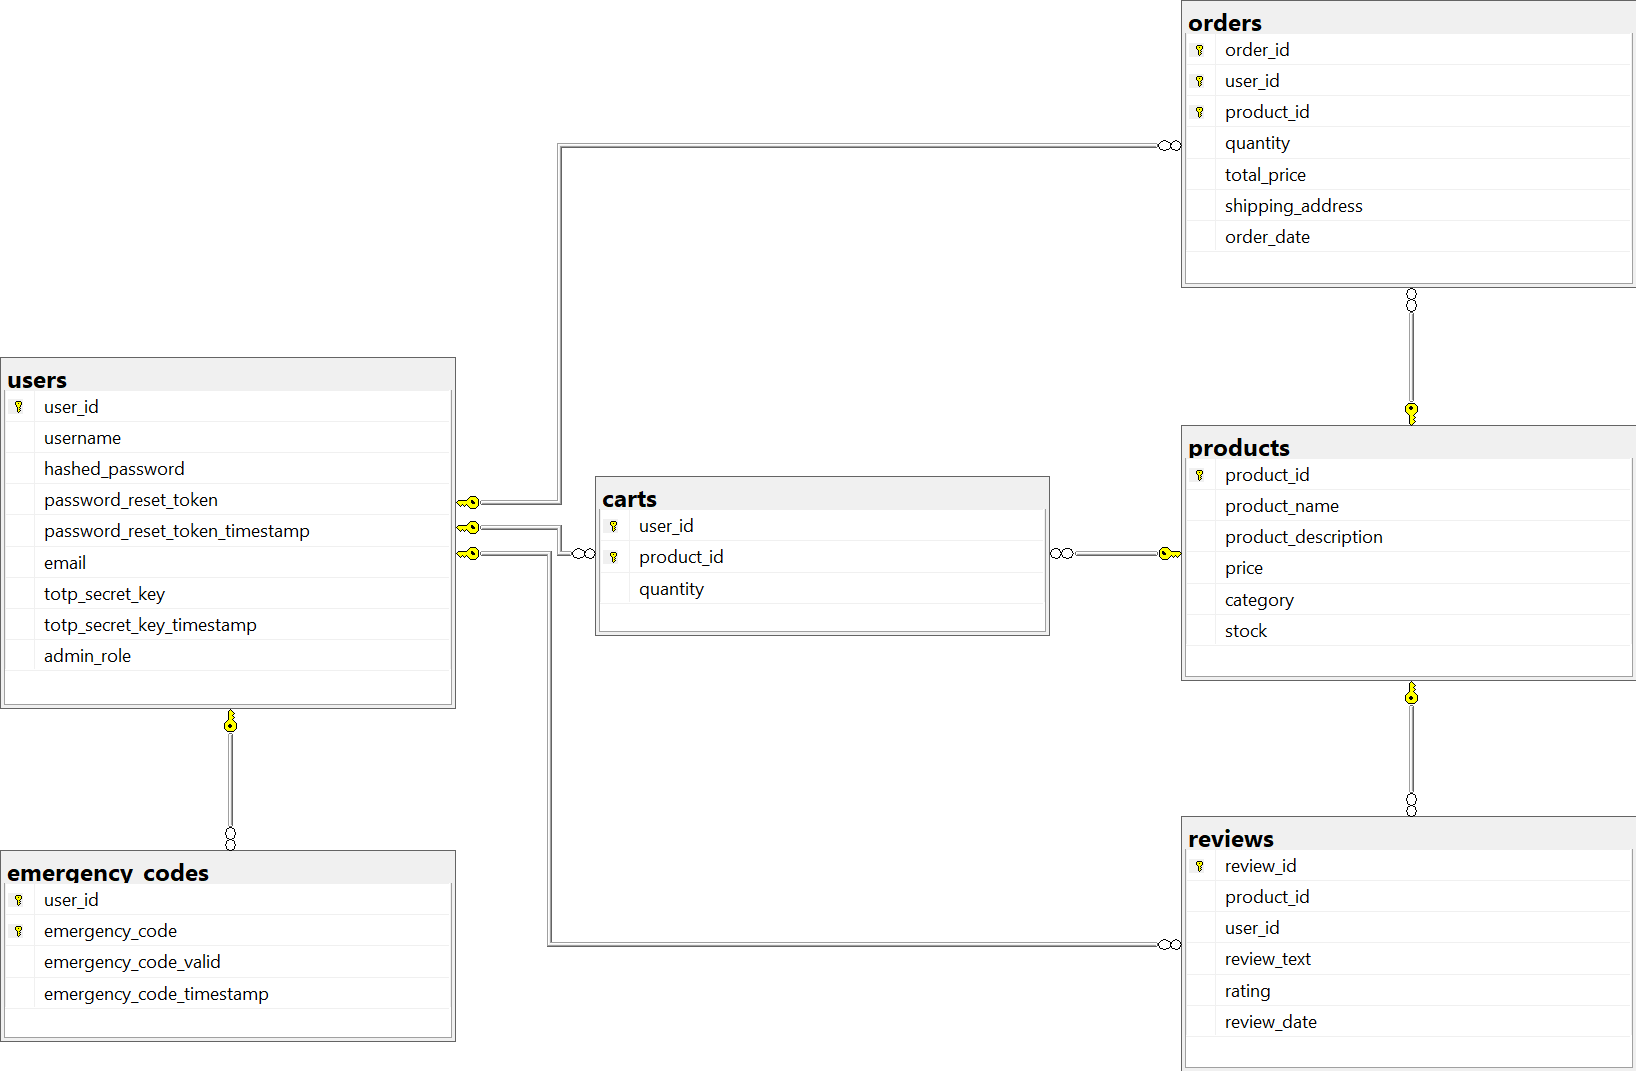
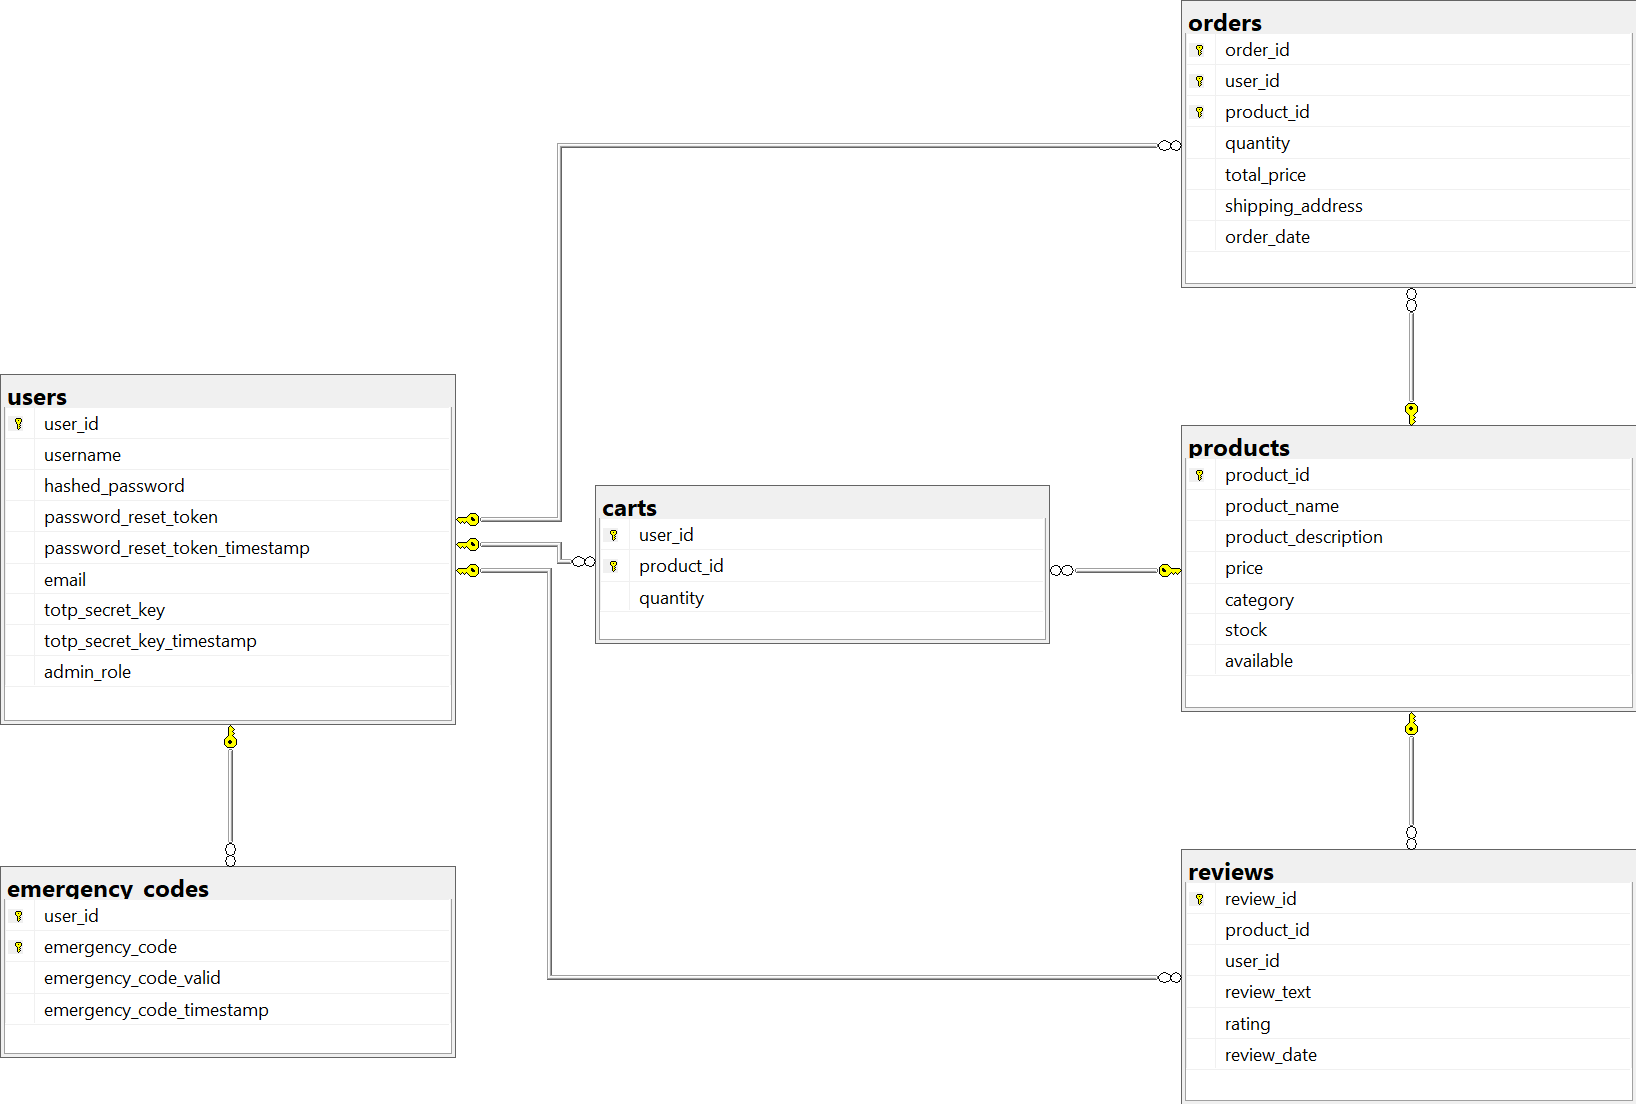
Finished the Migration to SQL Server. Needs Testing

diff --git a/src/templates/orders.html b/src/templates/orders.html
@@ -38,7 +38,9 @@
                         <td>{{ product.quantity }}</td>
                         <td>{{ product.price }} €</td>
                         <td>{{ product.date }}</td>
-                        <td><i class="fas fa-cart-plus reorderButton cart-button" data-product='{{ product|tojson|safe }}' id="reorderButton"></i></td>
+                        {% if product.product_available == 1 %}
+                            <td><i class="fas fa-cart-plus reorderButton cart-button" data-product='{{ product|tojson|safe }}' id="reorderButton"></i></td>
+                        {% endif %}
                     </tr>
                 {% endfor %}
             </tbody>

diff --git a/src/views.py b/src/views.py
@@ -7,7 +7,7 @@ from handlers.UserManagement import update_username, search_user_by_id, update_e
 from handlers.UserManagement import get_user_role, compose_email_body, update_password, generate_reset_token, set_reset_token_for_user
 from handlers.ProductManagement import create_review, set_cart_item, update_product_after_order, register_order
 from handlers.ProductManagement import create_product, remove_product, verify_id_exists, update_product_name, create_product_image
-from handlers.ProductManagement import update_product_description, update_product_price, update_product_category, update_product_quantity
+from handlers.ProductManagement import update_product_description, check_product_availability, update_product_price, update_product_category, update_product_quantity
 from handlers.EmailHandler import send_email_with_attachment, sql_to_pdf
 from handlers.DataBaseCoordinator import check_database_tables_exist, db_query, is_valid_table_name
 from handlers.Verifiers import check_username_exists, check_email_exists, check_product_in_cart, is_valid_input
@@ -121,8 +121,6 @@ def verify_totp_signup():
 
     secret_key = session.get("secret_key")
 
-    print(inserted_totp, secret_key)
-    print("aqui")
     # Verify the TOTP code
     if verify_totp_code(inserted_totp, secret_key):
 
@@ -219,22 +217,28 @@ def verify_totp_login(id):
         return render_template("totp_login.html", id=id)
     else:
         username = search_user_by_id(id)[1]
+        print("username "+username)
         token = request.get_json().get("token") if request.is_json else None
-        
+        print("token"+token)
         if username is None or token is None:
             return render_template("login.html", message="Invalid TOTP code. Please try again.")
 
         secret_key = get_totp_secret(id)
 
+        print("secret_key "+secret_key)
+
         verified = verify_totp_code(token, secret_key)
+
+        print("verified "+str(verified))
 
         # Verify the TOTP code
         if verified == True:
             # Set session variables
             session["username"] = username
             session["id"] = id
+            print("id "+str(id))
             session["admin"] = get_user_role(session["id"])
-
+            print("admin "+str(session["admin"]))
             return jsonify({'message': 'Login successful.'}), 200
         else:
 
@@ -512,7 +516,7 @@ def remove_product_by_id(id):
     # Updated route name and parameter name to avoid conflicts
     product_id = request.form.get("productId")
 
-    if is_valid_input(product_id) != False and id is not None and verify_id_exists(product_id, "products"):
+    if is_valid_input(product_id) != False and id is not None and verify_id_exists(product_id, "products") and check_product_availability(product_id) == True:
         # Assuming 'remove_product' is a function you've defined elsewhere, you can use it here
         remove_product(product_id)
 
@@ -567,12 +571,14 @@ def product_page(product_id):
     # Fetch the product details based on the product_id
     # You can retrieve the product information from your data source
     id = session.get("id")
+    
+    if verify_id_exists(product_id, "products") == False or check_product_availability(product_id) == False:
+        return redirect(url_for("views.catalog", id=id))
+    
     product = get_product_by_id(product_id)
     admin = get_user_role(id)
 
-    if verify_id_exists(product_id, "products") == False:
-        return redirect(url_for("views.catalog", id=id))
-    elif id == None:
+    if id == None:
         # Pass the product details to the template
         return render_template('product_anonymous.html', product = product)
     elif admin:
@@ -584,6 +590,9 @@ def product_page(product_id):
 
 @views.route('/get_reviews/<int:product_id>/', methods=['GET'])
 def get_reviews(product_id):
+
+    if verify_id_exists(product_id, "products") == False or check_product_availability(product_id) == False:
+        return jsonify([])
 
     reviews = get_product_reviews(product_id)
 
@@ -598,6 +607,9 @@ def get_reviews(product_id):
 
 @views.route('/add_review/<product_id>/', methods=['POST'])
 def add_review(product_id):
+
+    if verify_id_exists(product_id, "products") == False or check_product_availability(product_id) == False:
+        return redirect(url_for("views.catalog", id=session.get("id")))
 
     # Get the user's id and username from the session
     user_id = session.get("id")
@@ -628,7 +640,7 @@ def add_item_to_cart(product_id):
     id = session.get("id")
     if id == None:
         return redirect(url_for("views.login"))
-    elif verify_id_exists(product_id, "products") == False:
+    elif verify_id_exists(product_id, "products") == False or check_product_availability(product_id) == False:
         return redirect(url_for("views.catalog", id=id))
     
     try:
@@ -667,7 +679,7 @@ def remove_item_from_cart(product_id):
     if id == None:
         return redirect(url_for("views.login"))
     
-    elif verify_id_exists(product_id, "products") == False:
+    elif verify_id_exists(product_id, "products") == False or check_product_availability(product_id) == False:
         return redirect(url_for("views.catalog", id=id))
 
     try:
@@ -814,6 +826,8 @@ def orders(id):
 
     if products == None:
         return render_template('orders.html', products=[])
+    
+    print(products)
 
     return render_template('orders.html', products=products)
 

diff --git a/src/handlers/ProductManagement.py b/src/handlers/ProductManagement.py
@@ -16,6 +16,14 @@ def verify_product_exists(product_name):
     else:
         return True
 
+def check_product_availability(product_id):
+
+    # Secure Query: Check if the ID exists in the specified table
+    query = "SELECT available FROM products WHERE product_id = ?;"
+    results = db_query(query, (product_id))
+
+    return results[0][0] if results else False
+
 
 def verify_id_exists(id, table):
 
@@ -89,8 +97,8 @@ def create_product(product_name, product_description, product_price, product_cat
     
     # Add the user to the USER table
     # Secure Query
-    db_query("INSERT INTO products (product_id, product_name, product_description, price, category, stock) VALUES (?, ?, ?, ?, ?, ?);",
-            (id, product_name, product_description, product_price, product_category, product_quantity)
+    db_query("INSERT INTO products (product_id, product_name, product_description, price, category, stock, available) VALUES (?, ?, ?, ?, ?, ?, ?);",
+            (id, product_name, product_description, product_price, product_category, product_quantity, True)
     )
 
     # Create a folder for the user
@@ -101,27 +109,21 @@ def create_product(product_name, product_description, product_price, product_cat
 
 
 def remove_product(id):
-    # Secure Query
-    query = "DELETE FROM products WHERE product_id = ?"
+
+    # Secure Query to delete the product from the carts
+    query = "DELETE FROM carts WHERE product_id = ?;"
     db_query(query, (id))
 
-
-    # Get the current working directory
-    directory = os.getcwd()
-
-    # Define the path for the user's directory
-    user_directory = os.path.join(directory, "catalog")
-
-    # Create the user's directory and any missing parent directories
-    if os.path.exists(os.path.join(user_directory, f"{id}.png")):
-        os.remove(os.path.join(user_directory, f"{id}.png"))
+    # Secure Query
+    query = "UPDATE products SET available = 0 WHERE product_id = ?;"
+    db_query(query, (id))
 
     return True
 
 
 def update_product_name(id, name):
     # Secure Query
-    query = "UPDATE products SET name = %s WHERE id = %s"
+    query = "UPDATE products SET product_name = ? WHERE product_id = ?;"
     db_query(query, (name, id))
 
     return True
@@ -129,7 +131,7 @@ def update_product_name(id, name):
 
 def update_product_description(id, description):
     # Secure Query
-    query = "UPDATE products SET description = %s WHERE id = %s"
+    query = "UPDATE products SET product_description = ? WHERE product_id = ?;"
     db_query(query, (description, id))
 
     return True
@@ -137,7 +139,7 @@ def update_product_description(id, description):
 
 def update_product_price(id, price):
     # Secure Query
-    query = "UPDATE products SET price = %s WHERE id = %s"
+    query = "UPDATE products SET price = ? WHERE product_id = ?"
     db_query(query, (price, id))
 
     return True
@@ -146,7 +148,7 @@ def update_product_price(id, price):
 def update_product_category(id, category):
     
     # Secure Query
-    query = "UPDATE products SET category = %s WHERE id = %s"
+    query = "UPDATE products SET category = ? WHERE product_id = ?"
     db_query(query, (category, id))
 
     return True

diff --git a/src/handlers/Retrievers.py b/src/handlers/Retrievers.py
@@ -28,7 +28,7 @@ def get_orders(username_orders):
 
 def get_all_products():
     # Secure Query - Select specific columns
-    query = "SELECT product_id, product_name, product_description, price, category, stock FROM products"
+    query = "SELECT product_id, product_name, product_description, price, category, stock, available FROM products"
     results = db_query(query)
     
     # Fetch all rows in one go and convert to a list of dictionaries
@@ -39,7 +39,7 @@ def get_all_products():
         "price": row[3],
         "category": row[4],
         "stock": row[5]
-    } for row in results]
+    } for row in results if row[6] == True]
     
     return products
 
@@ -70,7 +70,8 @@ def get_product_by_id(id):
             "description": row[2],
             "price": row[3],
             "category": row[4],
-            "stock": row[5]
+            "stock": row[5],
+            "available" : row[6]
         }
         print(product)
         return product
@@ -100,6 +101,15 @@ def get_product_reviews(product_id):
     return reviews
 
 
+def check_product_availability(product_id):
+
+    # Secure Query: Check if the ID exists in the specified table
+    query = "SELECT available FROM products WHERE product_id = ?;"
+    results = db_query(query, (product_id))
+
+    return results[0][0] if results else False
+
+
 def get_cart(user_id):
 
     query = "SELECT * FROM carts WHERE user_id=?;"
@@ -108,8 +118,7 @@ def get_cart(user_id):
     cart = []
 
     for element in result:
-        print(element)
-        if not ((verify_product_id_exists(element[1]) and element[2] > 0 and element[2] <= get_product_by_id(element[1])["stock"])):
+        if not ((check_product_availability(element[1]) and verify_product_id_exists(element[1]) and element[2] > 0 and element[2] <= get_product_by_id(element[1])["stock"])):
             delete_query = "DELETE FROM carts WHERE product_id = ? AND user_id = ?;"
             db_query(delete_query, (element[1], user_id))
 

diff --git a/src/handlers/UserManagement.py b/src/handlers/UserManagement.py
@@ -398,22 +398,16 @@ def get_username_by_id(id):
 
 def get_user_role(id):
 
+    if not id:
+        return False
+
     # Construct the SQL query to retrieve the username
     # Secure Query
-    query = "SELECT admin_role FROM users WHERE user_id = ?"
+    query = "SELECT admin_role FROM users WHERE user_id = ?;"
     result = db_query(query, (id))
 
     # Check if the username was found
-    if result:
-
-        # If it was, return the username
-        return result[0][0]
-
-    else:
-
-        # If it wasn't return None
-        return None
-
+    return result[0][0] if result else None
 
 def compose_email_body(products, order_id):
     # Read the HTML and CSS files
@@ -461,7 +455,6 @@ def get_orders_by_user_id(id):
         return None
 
     products = []
-    print("olaaa")
     product = {}
     for row in results:
         print(row)
@@ -469,6 +462,13 @@ def get_orders_by_user_id(id):
         product_id = row[2]
         order_address = row[5]
         order_date = row[6]
+
+        # Remove milliseconds part from the string
+        order_date_str_without_ms = order_date.split('.')[0]
+
+        # Convert the string to a datetime object
+        order_date = datetime.strptime(order_date_str_without_ms, "%Y-%m-%d %H:%M:%S")
+        
         quantity = row[3]
 
         # Get product information by id
@@ -477,6 +477,7 @@ def get_orders_by_user_id(id):
         product = {
                     "order_id" : order_id,
                     "product_id": product_id,
+                    "product_available": product__["available"],
                     "quantity": quantity,
                     "name": product__["name"],
                     "price": product__["price"],
